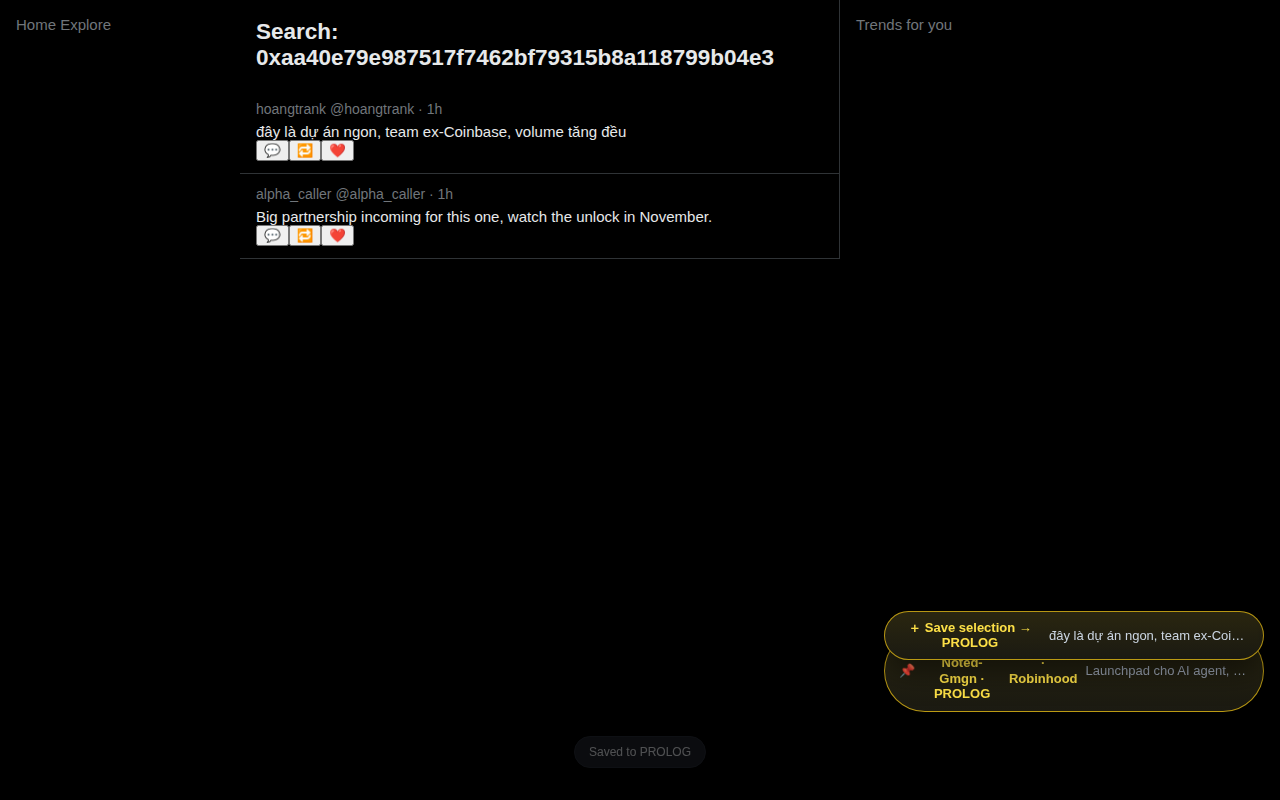
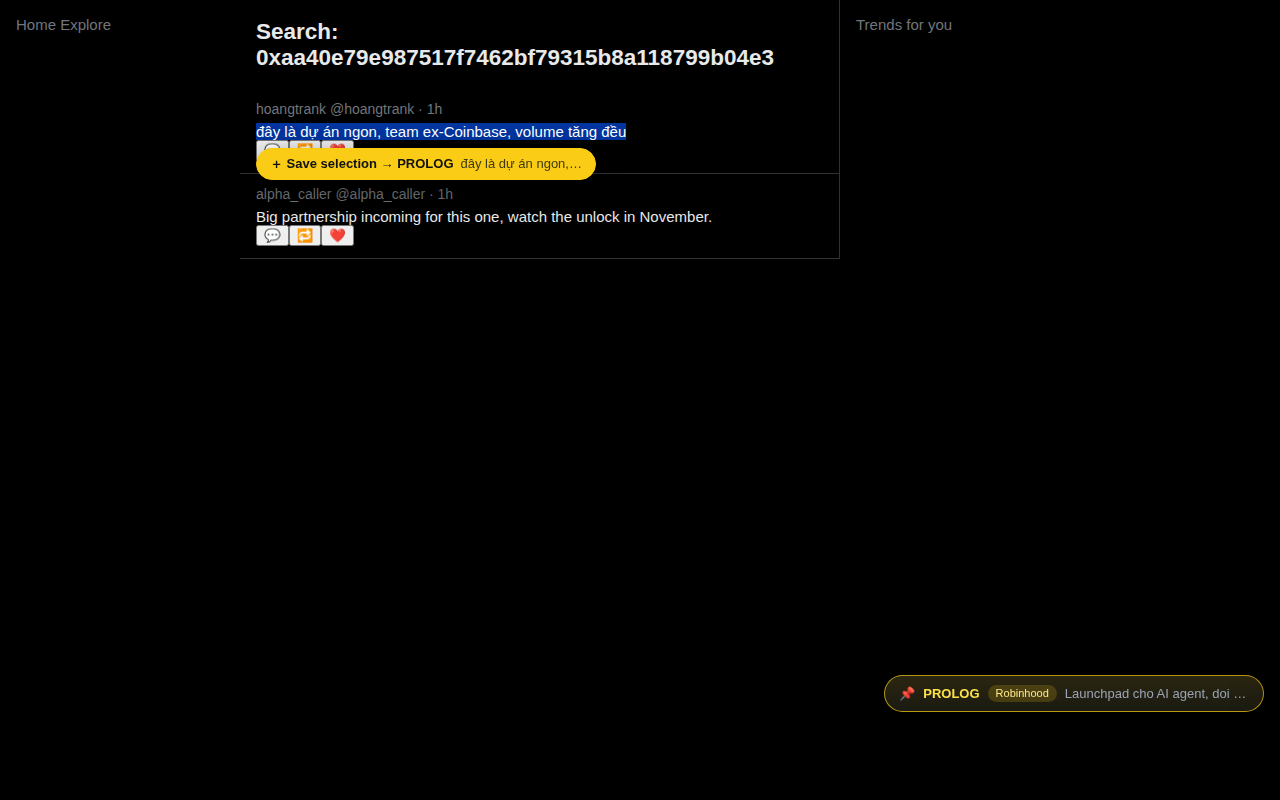
Compact note button, panel opens on saved selection, red @handles
- The floating button drops the long product prefix: "📝 Note MEME ·
  Robinhood" (chain as a small pill), or symbol + summary once a note
  exists.
- Saving a selection now opens the side panel on that note in the same
  click (sidePanel.open is called inside the gesture, before the async
  save) and flashes the entry that was just added; the panel reloads on
  a new entry instead of keeping its current view.
- The selection button is anchored right under the selected text
  instead of the screen corner, stays on one line, and Escape dismisses
  it.
- @handles in timeline entries are rendered in red so the author of a
  saved quote stands out.
Version 0.8.1.

Claude-Session: https://claude.ai/code/session_0174wcpqv3PPXBc7TtfHRh6s

Changed region(s): [[0.6875, 0.75, 1.0, 0.9062], [0.1875, 0.1562, 0.5, 0.25], [0.4688, 0.9375, 0.5312, 0.9688]]

diff --git a/src/content/core.js b/src/content/core.js
@@ -36,10 +36,13 @@
 .nd-fab{position:fixed;right:16px;bottom:88px;z-index:2147482999;display:flex;align-items:center;gap:8px;max-width:min(380px,calc(100vw - 32px));padding:9px 14px;border-radius:999px;border:1px solid rgba(167,139,250,.7);background:linear-gradient(180deg,#2a1f4d,#1c1730);color:#e9e5ff;font:600 13px/1.2 -apple-system,BlinkMacSystemFont,"Segoe UI",Roboto,Arial,sans-serif;box-shadow:0 10px 30px rgba(0,0,0,.5);cursor:pointer}
 .nd-fab:hover{filter:brightness(1.15)}
 .nd-fab.has{border-color:rgba(250,204,21,.7);color:#fde047;background:linear-gradient(180deg,#2a2610,#1b1a12)}
-.nd-fab .f-sum{font-weight:400;color:#9aa3b2;overflow:hidden;text-overflow:ellipsis;white-space:nowrap;max-width:230px}
-.nd-sel{position:fixed;right:16px;bottom:140px;z-index:2147482999;display:flex;align-items:center;gap:8px;max-width:min(380px,calc(100vw - 32px));padding:8px 14px;border-radius:999px;border:1px solid rgba(250,204,21,.7);background:linear-gradient(180deg,#2a2610,#1b1a12);color:#fde047;font:600 13px/1.2 -apple-system,BlinkMacSystemFont,"Segoe UI",Roboto,Arial,sans-serif;box-shadow:0 10px 30px rgba(0,0,0,.5);cursor:pointer}
-.nd-sel:hover{filter:brightness(1.15)}
-.nd-sel .s-txt{font-weight:400;color:#cbd5e1;overflow:hidden;text-overflow:ellipsis;white-space:nowrap;max-width:200px}
+.nd-fab .f-sum{font-weight:400;color:#9aa3b2;overflow:hidden;text-overflow:ellipsis;white-space:nowrap;max-width:220px}
+.nd-fab .f-lbl{font-weight:600}
+.nd-fab .f-chain{font-weight:500;font-size:11px;color:#c7d2fe;background:rgba(99,102,241,.22);border-radius:999px;padding:2px 8px;white-space:nowrap}
+.nd-fab.has .f-chain{color:#fde68a;background:rgba(250,204,21,.18)}
+.nd-sel{position:fixed;left:0;top:0;z-index:2147483001;display:flex;align-items:center;gap:7px;white-space:nowrap;max-width:min(340px,calc(100vw - 24px));padding:7px 13px;border-radius:999px;border:1px solid #facc15;background:#facc15;color:#111;font:700 13px/1.2 -apple-system,BlinkMacSystemFont,"Segoe UI",Roboto,Arial,sans-serif;box-shadow:0 8px 24px rgba(0,0,0,.45);cursor:pointer;transition:transform .1s}
+.nd-sel:hover{transform:translateY(-1px);background:#fde047}
+.nd-sel .s-txt{font-weight:400;color:#3f3a12;overflow:hidden;text-overflow:ellipsis;white-space:nowrap;max-width:170px}
 .nd-toast{position:fixed;left:50%;bottom:32px;transform:translateX(-50%);z-index:2147483002;padding:8px 14px;border-radius:999px;background:#20242d;color:#e6e8ec;border:1px solid #2b303a;font:12px -apple-system,BlinkMacSystemFont,"Segoe UI",Roboto,Arial,sans-serif;box-shadow:0 10px 30px rgba(0,0,0,.5);opacity:0;transition:opacity .15s;pointer-events:none}
 .nd-toast.show{opacity:1}
 `;
@@ -157,7 +160,9 @@
     (document.body || document.documentElement).appendChild(host);
 
     document.addEventListener('keydown', ev => {
-      if (ev.key === 'Escape' && openKey) { ev.stopPropagation(); closeDrawer(); }
+      if (ev.key !== 'Escape') return;
+      if (selBtn && !selBtn.hidden) { selBtn.hidden = true; return; }
+      if (openKey) { ev.stopPropagation(); closeDrawer(); }
     }, true);
     window.addEventListener('scroll', hideTip, { passive: true, capture: true });
   }
@@ -380,7 +385,7 @@
     if (!editor) { await I.init(); mount(); }
     if (openKey && openKey !== token.key) await editor.flush();
     openKey = token.key;
-    await editor.load({ ...token, symbol: ctx.symbol || '' }, { mc: ctx.mc || null });
+    await editor.load({ ...token, symbol: ctx.symbol || '' }, { mc: ctx.mc || null, highlight: ctx.highlight || '' });
     drawer.classList.add('open');
     setTimeout(() => editor.focus(), 200);
   }
@@ -426,11 +431,10 @@
     const sym = (p && p.symbol) || pageSymbol();
     fab.hidden = false;
     fab.classList.toggle('has', !!p);
-    const prefix = A.fabPrefix ? `${E.esc(A.fabPrefix)} · ` : '';
-    const chain = A.fabChain ? ` · ${E.esc(S.chainLabel(pageToken.chain))}` : '';
+    const chain = A.fabChain ? `<span class="f-chain">${E.esc(S.chainLabel(pageToken.chain))}</span>` : '';
     fab.innerHTML = p
-      ? `${p.pinned ? '📌' : '📝'} <b>${prefix}${E.esc(sym || t('fab_note'))}</b>${chain}${p.summary ? `<span class="f-sum">${E.esc(p.summary.slice(0, 90))}</span>` : `<span class="f-sum">${E.esc(t('entries_count', { n: p.timeline.length }))}</span>`}`
-      : `📝 ${prefix}${E.esc(t('fab_note'))}${sym ? ' <b>' + E.esc(sym) + '</b>' : ''}${chain}`;
+      ? `${p.pinned ? '📌' : '📝'} <b>${E.esc(sym || t('fab_note'))}</b>${chain}${p.summary ? `<span class="f-sum">${E.esc(p.summary.slice(0, 80))}</span>` : `<span class="f-sum">${E.esc(t('entries_count', { n: p.timeline.length }))}</span>`}`
+      : `📝 <span class="f-lbl">${E.esc(t('fab_note'))}</span>${sym ? ` <b>${E.esc(sym)}</b>` : ''}${chain}`;
     fab.title = t('fab_title');
     refreshSelection();
   }
@@ -440,15 +444,27 @@
     if (!selBtn) return;
     const sel = window.getSelection && window.getSelection();
     const text = sel && !sel.isCollapsed ? String(sel.toString() || '').trim() : '';
-    if (text.length >= 3 && pageToken) {
-      lastSelection = text;
-      const p = cache.get(pageToken.key);
-      const sym = (p && p.symbol) || pageSymbol() || S.shortAddress(pageToken.address);
-      selBtn.innerHTML = `＋ ${E.esc(t('sel_save', { symbol: sym }))}<span class="s-txt">${E.esc(text.slice(0, 60))}</span>`;
-      selBtn.hidden = false;
-    } else if (!text) {
-      selBtn.hidden = true;
-    }
+    if (!text) { selBtn.hidden = true; return; }
+    if (text.length < 3 || !pageToken) return;
+    lastSelection = text;
+    const p = cache.get(pageToken.key);
+    const sym = (p && p.symbol) || pageSymbol() || S.shortAddress(pageToken.address);
+    selBtn.innerHTML = `＋ ${E.esc(t('sel_save', { symbol: sym }))}<span class="s-txt">${E.esc(text.slice(0, 48))}</span>`;
+    selBtn.hidden = false;
+    placeSelBtn(sel);
+  }
+
+  // Nút bám ngay dưới (hoặc trên) vùng bôi đen cho khỏi phải đưa mắt đi xa.
+  function placeSelBtn(sel) {
+    let r = null;
+    try { r = sel.rangeCount ? sel.getRangeAt(0).getBoundingClientRect() : null; } catch (_) {}
+    const w = selBtn.offsetWidth || 240, h = selBtn.offsetHeight || 34;
+    if (!r || (!r.width && !r.height)) { selBtn.style.left = `${window.innerWidth - w - 16}px`; selBtn.style.top = `${window.innerHeight - h - 96}px`; return; }
+    const left = Math.min(Math.max(8, r.left), Math.max(8, window.innerWidth - w - 8));
+    let top = r.bottom + 8;
+    if (top + h > window.innerHeight - 8) top = Math.max(8, r.top - h - 8);
+    selBtn.style.left = `${left}px`;
+    selBtn.style.top = `${top}px`;
   }
 
   function saveSelection() {
@@ -462,10 +478,11 @@
     const p = cache.get(pageToken.key);
     const symbol = (p && p.symbol) || pageSymbol() || pageToken.symbol || '';
     const text = author ? `${author}: ${lastSelection}` : lastSelection; // mở đầu bằng tên tài khoản của bài chứa đoạn bôi đen
-    chrome.runtime.sendMessage({ type: 'noted:add-entry', token, symbol, entryType: 'research', text, url, sourceLabel: t('grok_source') }, res => {
-      if (chrome.runtime.lastError || !res || !res.ok) { toast(t('grok_nothing')); return; }
+    selBtn.hidden = true;
+    // openPanel: background mở side panel ngay trong cú bấm này (giữ user gesture) rồi hiện mốc vừa lưu.
+    chrome.runtime.sendMessage({ type: 'noted:add-entry', token, symbol, entryType: 'research', text, url, sourceLabel: t('grok_source'), openPanel: true, mode: uiMode }, res => {
+      if (chrome.runtime.lastError || !res || !res.ok) { toast(t('grok_nothing')); refreshSelection(); return; }
       toast(t('sel_saved', { symbol: res.symbol || symbol || S.shortAddress(token.address) }));
-      selBtn.hidden = true;
       lastSelection = '';
       if (sel) sel.removeAllRanges();
     });

diff --git a/test/e2e.js b/test/e2e.js
@@ -429,29 +429,49 @@ const drawerOpen = page => page.evaluate(() => !!document.getElementById('noted-
   console.log('16) Tìm kiếm trên X theo contract / $SYMBOL: nút nổi nhận ra token, lưu đoạn bôi đen kèm tên tài khoản');
   const xp = await ctx.newPage();
   xp.on('pageerror', e => console.log('X ERROR', e.message));
+  // Không có quyền "tabs" nên ghi lại tab id từ sender của message thay vì query theo URL.
+  await sw.evaluate(() => { chrome.runtime.onMessage.addListener((m, sender) => { if (m && m.type === 'noted:page-token' && sender.tab) globalThis.__xTab = sender.tab.id; }); });
   await xp.goto('https://x.com/search?q=0xaa40e79e987517f7462bf79315b8a118799b04e3&src=typed_query');
   await xp.waitForFunction(() => { const f = document.getElementById('noted-gmgn-host')?.shadowRoot.querySelector('.nd-fab'); return f && !f.hidden; }, null, { timeout: 10000 });
   const fabX = await shadowQ(xp, '.nd-fab');
-  assert(fabX.includes('Research-Noted-Gmgn') && fabX.includes('PROLOG') && fabX.includes('Robinhood'), 'nút nổi: Research-Noted-Gmgn · PROLOG · Robinhood: ' + fabX);
+  assert(!fabX.includes('Research-Noted-Gmgn') && fabX.includes('PROLOG') && fabX.includes('Robinhood'), 'nhãn gọn "PROLOG · Robinhood", không còn tiền tố dài: ' + fabX.trim());
   assert((await xp.$$('.noted-badge')).length === 0 && (await xp.$$('.noted-x-btn')).length === 0, 'không có nút nào trên từng bài');
-  const ptx = await sw.evaluate(async id => chrome.tabs.sendMessage(id, { type: 'noted:get-page-token' }), await sw.evaluate(async () => { const all = await chrome.tabs.query({}); return all[all.length - 1].id; }));
+  const xTabId = await sw.evaluate(() => globalThis.__xTab);
+  assert(typeof xTabId === 'number', 'background nhận token của trang tìm kiếm X từ content script');
+  const ptx = await sw.evaluate(async id => chrome.tabs.sendMessage(id, { type: 'noted:get-page-token' }), xTabId);
   assert(ptx && ptx.token && ptx.token.key === PROLOG, 'popup/phím tắt/side panel nhận đúng token của trang tìm kiếm');
   // bôi đen chữ trong bài của @hoangtrank
   await xp.evaluate(() => { const el = document.querySelector('article [data-testid="tweetText"]'); const r = document.createRange(); r.selectNodeContents(el); const s = getSelection(); s.removeAllRanges(); s.addRange(r); });
   await xp.waitForFunction(() => { const b = document.getElementById('noted-gmgn-host').shadowRoot.querySelector('.nd-sel'); return b && !b.hidden; }, null, { timeout: 5000 });
   assert((await shadowQ(xp, '.nd-sel')).includes('PROLOG'), 'bôi đen -> hiện nút "Save selection → PROLOG"');
+  const selPos = await xp.evaluate(() => {
+    const b = document.getElementById('noted-gmgn-host').shadowRoot.querySelector('.nd-sel').getBoundingClientRect();
+    const r = getSelection().getRangeAt(0).getBoundingClientRect();
+    return { dx: Math.round(b.left - r.left), dy: Math.round(b.top - r.bottom) };
+  });
+  assert(Math.abs(selPos.dx) < 40 && selPos.dy >= 0 && selPos.dy < 40, `nút bám ngay dưới vùng bôi đen (lệch ${selPos.dx}px, cách ${selPos.dy}px)`);
+  await xp.setViewportSize({ width: 1280, height: 800 });
+  await xp.screenshot({ path: path.join(OUT, '9-x-search.png') });
   await xp.evaluate(() => document.getElementById('noted-gmgn-host').shadowRoot.querySelector('.nd-sel').click());
   await xp.waitForFunction(() => document.getElementById('noted-gmgn-host').shadowRoot.querySelector('.nd-toast').classList.contains('show'), null, { timeout: 5000 });
   const selEntries = (await sw.evaluate(async k => (await chrome.storage.local.get('p:' + k))['p:' + k], PROLOG)).timeline.filter(e => e.source === 'x');
   assert(selEntries.length === 1 && selEntries[0].type === 'research' && selEntries[0].text.startsWith('@hoangtrank: đây là dự án ngon') && selEntries[0].text.includes('Source: https://x.com/hoangtrank/status/1900000000000000011'), 'mốc lưu "@hoangtrank: <đoạn bôi đen>" kèm link bài: ' + selEntries[0].text.split('\n')[0]);
-  await xp.setViewportSize({ width: 1280, height: 800 });
-  await xp.screenshot({ path: path.join(OUT, '9-x-search.png') });
+  const sess = await sw.evaluate(async id => (await chrome.storage.session.get('tab:' + id))['tab:' + id], xTabId);
+  assert(sess && sess.token.key === PROLOG && sess.ctx.highlight === selEntries[0].id, 'lưu xong: side panel của tab trỏ đúng dự án và mốc vừa lưu');
+  const panelX = await ctx.newPage();
+  await panelX.goto(`chrome-extension://${extId}/src/panel/panel.html?tab=${xTabId}`);
+  await panelX.waitForSelector('#mount:not([hidden]) .ne-entry--new', { timeout: 8000 });
+  assert((await panelX.$eval('.ne-entry--new .ne-etext', e => e.textContent)).includes('@hoangtrank'), 'side panel mở sẵn và tô sáng mốc vừa lưu');
+  const at = await panelX.$eval('.ne-entry--new .ne-etext .ne-at', e => [e.textContent, getComputedStyle(e).color]);
+  assert(at[0] === '@hoangtrank' && at[1] === 'rgb(248, 113, 113)', `tên tài khoản hiển thị màu đỏ: ${at[0]} ${at[1]}`);
+  await panelX.close();
   await xp.goto('https://x.com/search?q=%24EXTENSION&f=live');
   await xp.waitForFunction(() => { const f = document.getElementById('noted-gmgn-host')?.shadowRoot.querySelector('.nd-fab'); return f && !f.hidden && f.textContent.includes('EXTENSION'); }, null, { timeout: 10000 });
   assert(true, 'tìm theo $SYMBOL cũng nhận ra dự án đã ghi chú');
   await xp.goto(`https://x.com/search?q=${dexMock.MINT_A}`);
   await xp.waitForFunction(() => { const f = document.getElementById('noted-gmgn-host')?.shadowRoot.querySelector('.nd-fab'); return f && !f.hidden && f.textContent.includes('BONKZ'); }, null, { timeout: 15000 });
-  assert((await shadowQ(xp, '.nd-fab')).includes('Solana'), 'địa chỉ chưa có ghi chú -> tra DexScreener ra BONKZ · Solana, bấm là tạo ghi chú mới được');
+  const fabNew = (await shadowQ(xp, '.nd-fab')).replace(/\s+/g, ' ').trim();
+  assert(/^📝 ?Note ?BONKZ ?Solana$/.test(fabNew), 'địa chỉ chưa có ghi chú -> nhãn gọn "📝 Note BONKZ Solana", bấm là tạo ghi chú mới: ' + fabNew);
   await xp.goto('https://x.com/search?q=hello%20world');
   await xp.waitForTimeout(1200);
   assert(await xp.evaluate(() => { const f = document.getElementById('noted-gmgn-host')?.shadowRoot.querySelector('.nd-fab'); return !f || f.hidden; }), 'tìm kiếm không liên quan -> không hiện gì');

diff --git a/src/lib/editor.js b/src/lib/editor.js
@@ -79,9 +79,13 @@
 .ne-eactions button{padding:0 5px;font-size:12px}
 .ne-etext{margin-top:3px;white-space:pre-wrap;word-break:break-word}
 .ne-etext a{word-break:break-all}
+.ne-at{color:#f87171;font-weight:700}
 .ne-entry textarea{margin-top:4px}
 .ne-eimg{margin-top:6px}
 .ne-eimg img{display:block;max-width:100%;max-height:260px;border:1px solid var(--ne-line);border-radius:8px;cursor:zoom-in;background:#000}
+.ne-entry--new .ne-etext{border-radius:6px;animation:ne-flash 2.4s ease-out}
+.ne-entry--new::before{border-color:var(--ne-acc);box-shadow:0 0 0 4px rgba(250,204,21,.18)}
+@keyframes ne-flash{0%{background:rgba(250,204,21,.28);box-shadow:0 0 0 6px rgba(250,204,21,.28)}100%{background:transparent;box-shadow:none}}
 .ne-empty{color:var(--ne-fg3);font-size:12px;padding:8px 0 4px 30px}
 .ne-foot{display:flex;align-items:center;gap:10px;padding:8px 16px;border-top:1px solid var(--ne-line);font-size:11px;color:var(--ne-fg3);background:var(--ne-bg2);white-space:nowrap}
 .ne-foot .ne-spacer{flex:1}
@@ -97,6 +101,11 @@
     return String(s ?? '').replace(/[&<>"']/g, c => ({ '&': '&amp;', '<': '&lt;', '>': '&gt;', '"': '&quot;', "'": '&#39;' }[c]));
   }
 
+  // Tên tài khoản (@handle) tô đỏ cho dễ nhận ra ai nói câu đó. Chạy trên chuỗi ĐÃ escape.
+  function mentions(escaped) {
+    return escaped.replace(/(^|[\s(\[<>"'*·:,])@([A-Za-z0-9_]{1,20})\b/g, (m, pre, h) => `${pre}<span class="ne-at">@${h}</span>`);
+  }
+
   function linkify(text) {
     const parts = String(text ?? '').split(/(https?:\/\/[^\s<>"')\]]+)/g);
     return parts.map((part, i) => {
@@ -106,7 +115,7 @@
         if (m) { tail = m[0]; url = url.slice(0, -tail.length); }
         return `<a href="${esc(url)}" target="_blank" rel="noopener noreferrer">${esc(shortUrl(url))}</a>${esc(tail)}`;
       }
-      return esc(part);
+      return mentions(esc(part));
     }).join('');
   }
 
@@ -216,13 +225,15 @@
     ui.stars.innerHTML = [1, 2, 3, 4, 5].map(n => `<span data-n="${n}">★</span>`).join('');
 
     let project = null;   // dự án đang mở (có thể chưa được lưu)
-    let ctx = {};         // ngữ cảnh từ trang: { mc }
+    let ctx = {};         // ngữ cảnh từ trang: { mc, highlight }
+    let highlightId = ''; // id mốc vừa thêm từ nơi khác: tô sáng một lần cho người dùng thấy
     let persisted = false;
     let saveTimer = null;
     let destroyed = false;
 
     async function load(token, context = {}) {
       ctx = context || {};
+      highlightId = ctx.highlight || '';
       const existing = await S.get(token.key);
       persisted = !!existing;
       project = existing || S.emptyProject(token.chain, token.address);
@@ -286,6 +297,7 @@
         const et = S.ENTRY_TYPES.find(x => x.id === e.type) || S.ENTRY_TYPES[0];
         const li = el('li', 'ne-entry');
         li.dataset.type = e.type;
+        if (highlightId && e.id === highlightId) li.classList.add('ne-entry--new');
         li.innerHTML = `
           <div class="ne-ehead">
             <span class="ne-etype">${et.icon} ${esc(S.entryLabel(e.type))}</span>
@@ -310,6 +322,11 @@
         });
         li.querySelector('.ne-eedit').addEventListener('click', () => beginEdit(li, e));
         ui.entries.appendChild(li);
+      }
+      if (highlightId) {
+        const el2 = ui.entries.querySelector('.ne-entry--new');
+        if (el2) setTimeout(() => el2.scrollIntoView({ block: 'nearest', behavior: 'smooth' }), 60);
+        setTimeout(() => { highlightId = ''; }, 2600);
       }
     }
 

diff --git a/src/background.js b/src/background.js
@@ -192,8 +192,16 @@ chrome.runtime.onMessage.addListener((msg, sender, sendResponse) => {
       return true;
     }
     case 'noted:add-entry': { // thêm một mốc vào token (dùng cho "lưu đoạn bôi đen" trên trang tìm kiếm X)
+      const addToken = validToken(msg.token);
+      const addTabId = sender.tab && sender.tab.id;
+      const wantPanel = !!msg.openPanel && !!addTabId && (msg.mode || uiMode) !== 'drawer' && !!chrome.sidePanel;
+      // Mở panel NGAY trong lượt xử lý cú bấm (không await trước), rồi mới lưu bất đồng bộ.
+      if (wantPanel && addToken) {
+        chrome.sidePanel.setOptions({ tabId: addTabId, enabled: true, path: 'src/panel/panel.html' }).catch(() => {});
+        chrome.sidePanel.open({ tabId: addTabId }).catch(() => {});
+      }
       (async () => {
-        const token = validToken(msg.token);
+        const token = addToken;
         const text = String(msg.text || '').trim().slice(0, 20000);
         if (!token || !text) { sendResponse({ ok: false }); return; }
         const type = NotedStore.ENTRY_TYPES.some(x => x.id === msg.entryType) ? msg.entryType : 'research';
@@ -204,6 +212,12 @@ chrome.runtime.onMessage.addListener((msg, sender, sendResponse) => {
         const entry = NotedStore.newEntry(type, body, { source: 'x' });
         p.timeline.push(entry);
         p = await NotedStore.save(p);
+        // Cho người dùng thấy ngay mốc vừa lưu: panel (hoặc drawer) mở đúng dự án và tô sáng mốc đó.
+        if (msg.openPanel && addTabId) {
+          const ctx = { symbol: p.symbol, highlight: entry.id, force: entry.id };
+          if (wantPanel) await remember(addTabId, { chain: p.chain, address: p.address, key: p.key }, ctx);
+          else chrome.tabs.sendMessage(addTabId, { type: 'noted:open-drawer', token: { chain: p.chain, address: p.address, key: p.key }, ctx }).catch(() => {});
+        }
         sendResponse({ ok: true, key: p.key, symbol: p.symbol, entryId: entry.id });
       })();
       return true;

diff --git a/src/panel/panel.js b/src/panel/panel.js
@@ -37,6 +37,7 @@
   const empty = $('#empty');
   const mount = $('#mount');
   let currentKey = null;
+  let lastForce = '';   // id mốc vừa được thêm từ trang: khác giá trị cũ thì nạp lại dù cùng token
 
   const editor = E.create({
     showClose: true,
@@ -57,15 +58,18 @@
   async function show(entry) {
     if (!entry || !entry.token) { showEmpty(); return; }
     const { token, ctx = {} } = entry;
-    if (currentKey === token.key && !mount.hidden) return; // cùng token: giữ nguyên editor đang gõ
+    const force = String(ctx.force || '');
+    if (currentKey === token.key && !mount.hidden && (!force || force === lastForce)) return; // cùng token, không có gì mới: giữ nguyên editor đang gõ
     if (currentKey && currentKey !== token.key) await editor.flush();
+    else if (force && force !== lastForce) await editor.flush();
+    lastForce = force;
     currentKey = token.key;
     let symbol = ctx.symbol || '';
     if (!symbol && tabId) {
       // Mở từ popup/phím tắt: hỏi content script symbol đang hiển thị trên trang.
       try { const r = await chrome.tabs.sendMessage(tabId, { type: 'noted:page-info', key: token.key }); symbol = (r && r.symbol) || ''; } catch (_) {}
     }
-    await editor.load({ ...token, symbol }, { mc: ctx.mc || null });
+    await editor.load({ ...token, symbol }, { mc: ctx.mc || null, highlight: ctx.highlight || '' });
     empty.hidden = true;
     mount.hidden = false;
     editor.focus();

diff --git a/src/content/sites/xsearch.js b/src/content/sites/xsearch.js
@@ -41,7 +41,6 @@
 
   window.__notedAdapter = {
     name: 'xsearch',
-    fabPrefix: 'Research-Noted-Gmgn',
     fabChain: true,
     selectionSave: true,
     scanTargets: () => [],

diff --git a/README.md b/README.md
@@ -14,7 +14,7 @@ UI languages: **English** (default), Tiếng Việt, 中文 — switchable in th
 
 | Where | What |
 |---|---|
-| Token page on gmgn, pair page on DexScreener, X search for a contract / $SYMBOL | One floating **Note SYMBOL** button (bottom right) for the token you are looking at: yellow when a note exists, showing its summary. Click to open the note in the side panel; click again to close it. |
+| Token page on gmgn, pair page on DexScreener, X search for a contract / $SYMBOL | One compact floating button for the token you are looking at — `📝 Note MEME · Robinhood`, or `📌 MEME · Robinhood — summary` once a note exists. Click to open the note in the side panel; click again to close it. |
 | Token lists (optional, off by default) | Settings → "Also show a ✎ button on every row": a button right after each symbol, violet = no note, yellow = has a note, orange 📌 = pinned; hover shows the summary. |
 | Click the button | Opens Chrome's **Side Panel** on the right (outside the page: the browser shrinks gmgn instead of covering it; drag the edge to resize): symbol, one-line name, status, conviction 1–5, **What does this project do?**, tags, timeline. Autosaves. The market cap shown in the row is stored with each entry ("bought at MC $10.6M"). The popup can switch to an in-page overlay instead. |
 | **Side panel follows the page** | Once the panel is open in a tab, opening another token (clicking a watchlist row, a link, the address bar) switches the panel to that token. Toggle in Settings. |
@@ -35,7 +35,9 @@ The template, the target (Grok on X / grok.com), auto-save and the follow-the-pa
 
 ## Researching on X
 
-Click the **X** link in a note (or gmgn's own X-search button): it opens `x.com/search?q=<contract>`. On any X search whose query contains a contract address or `$SYMBOL` you have noted, a floating **Research-Noted-Gmgn · SYMBOL · Chain** button appears (bottom right). Click it to open the note in the side panel. Select any text in a post and a **Save selection → SYMBOL** button appears: it stores `@author: <selected text>` plus the post link as a *Research* entry. If the address is not noted yet, the extension asks DexScreener which token it is and offers to create the note. Nothing is added to individual posts.
+Click the **X** link in a note (or gmgn's own X-search button): it opens `x.com/search?q=<contract>`. On any X search whose query contains a contract address or `$SYMBOL` you have noted, the floating note button appears for that token. Click it to open the note in the side panel.
+
+Select any text in a post and a **Save selection → SYMBOL** button pops up right under the selection. It stores `@author: <selected text>` plus the post link as a *Research* entry, then opens the side panel on that note and flashes the entry it just added, so you can see and edit it immediately. Handles like `@theunipcs` are shown in red inside the timeline. If the address is not noted yet, the extension asks DexScreener which token it is and offers to create the note. Nothing is added to individual posts.
 
 ## Architecture
 
